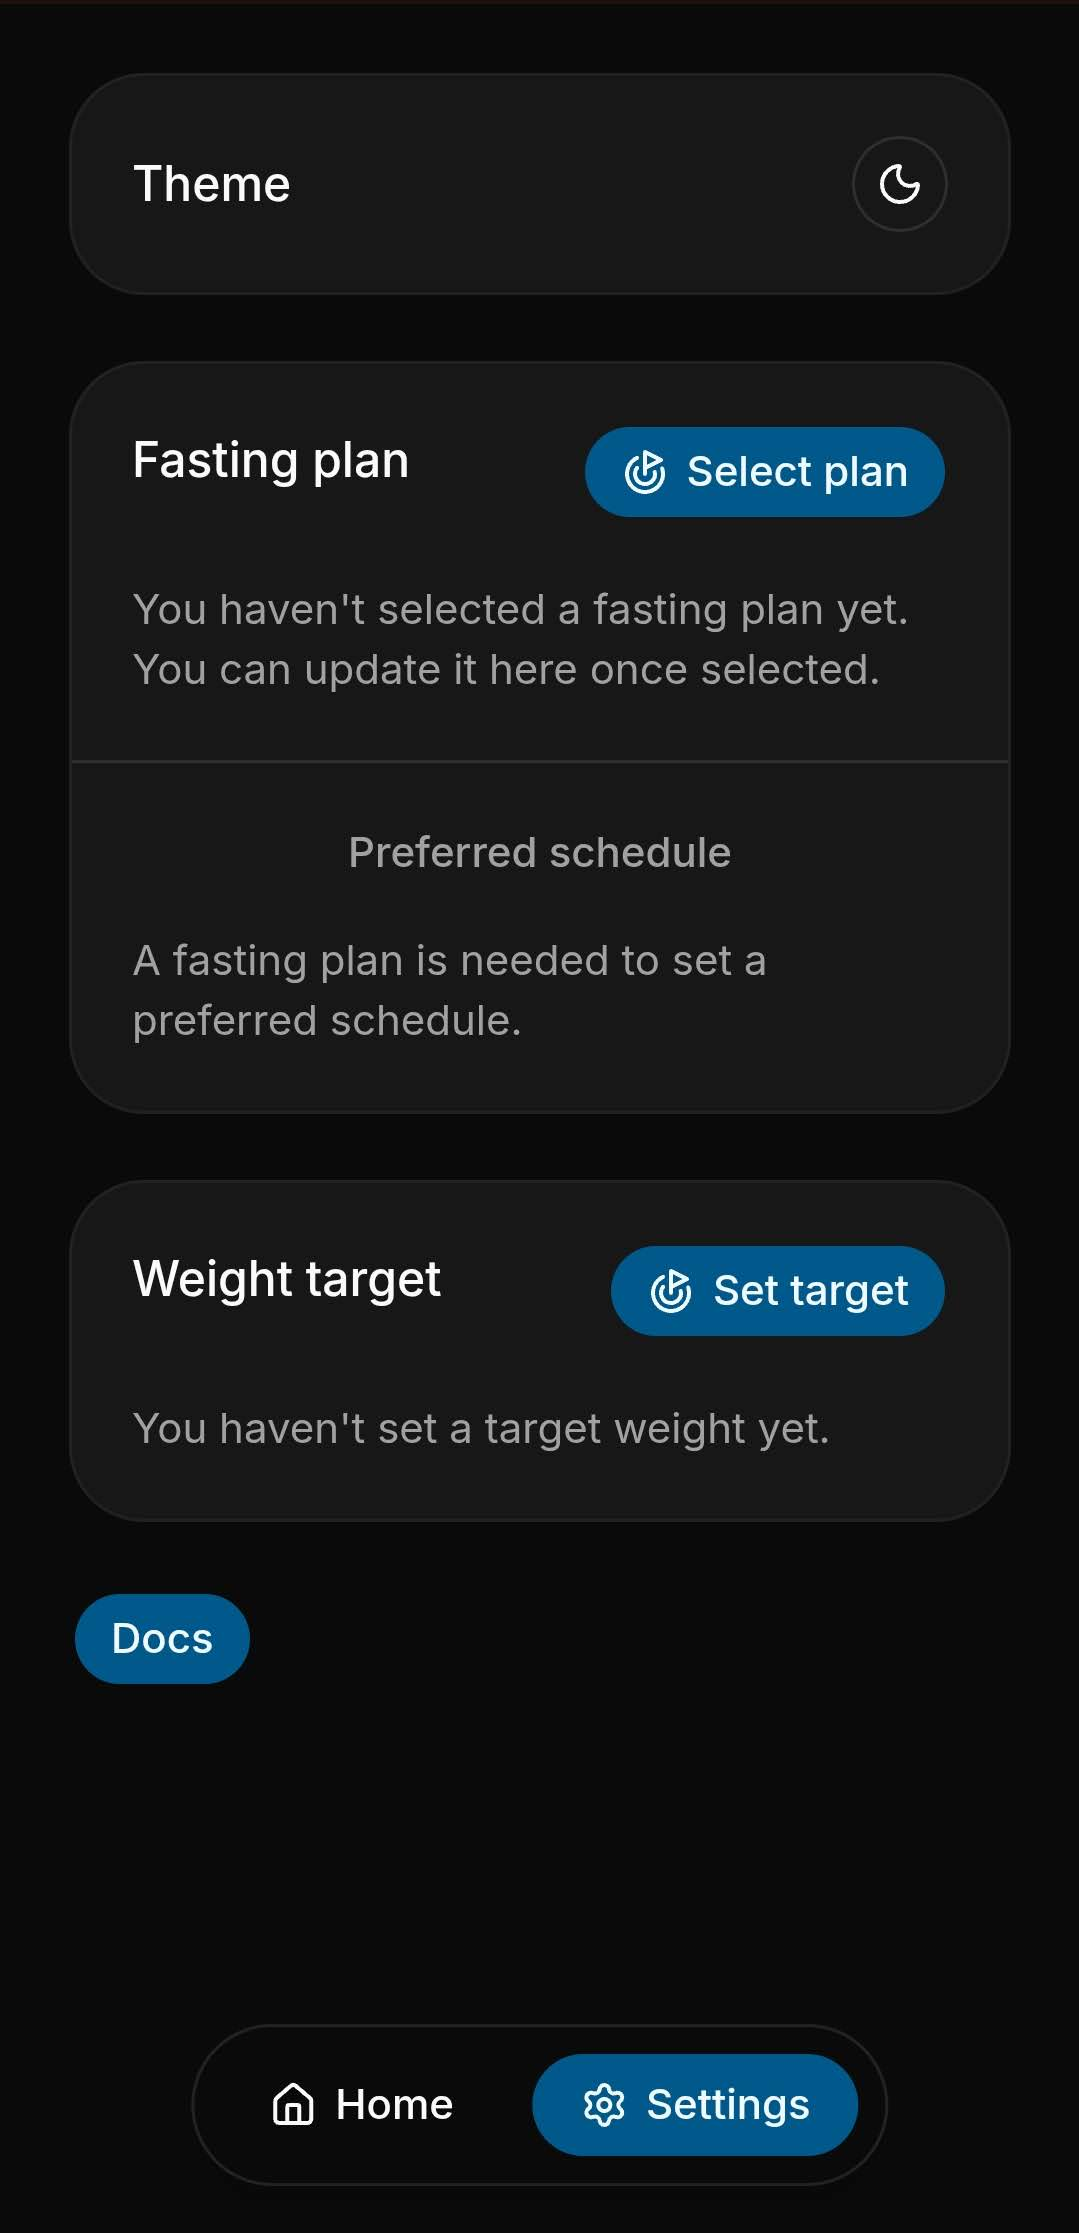
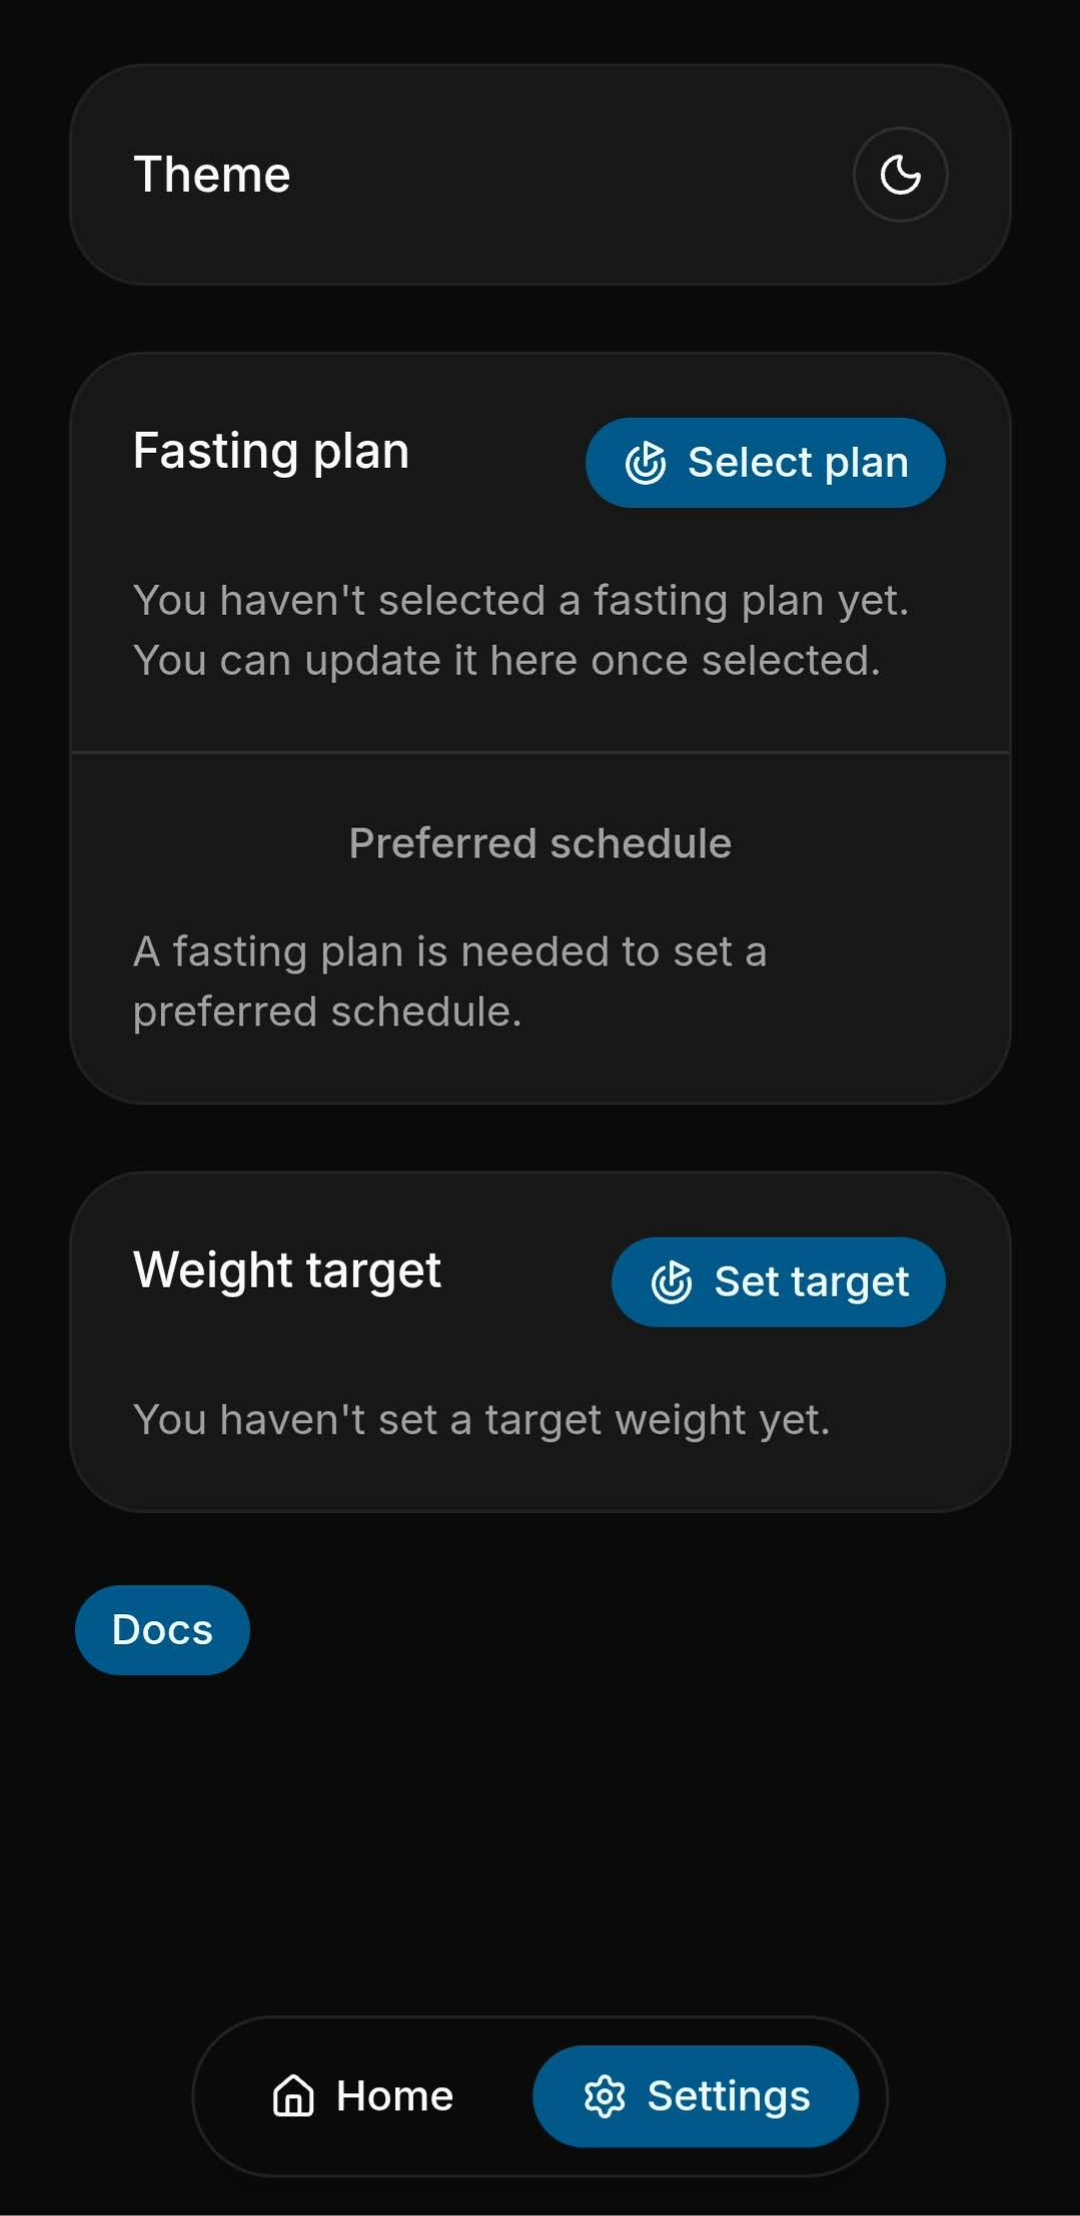
chore: update narrow screeshot size in manifest

diff --git a/app/manifest.ts b/app/manifest.ts
@@ -63,7 +63,7 @@ export default function manifest(): MetadataRoute.Manifest {
         src: '/screenshots/settings-mobile-dark.webp',
         form_factor: 'narrow',
         label: 'Mobile view showing the settings page in dark mode',
-        sizes: '1079x2233',
+        sizes: '1080x2216',
       },
     ],
   }
